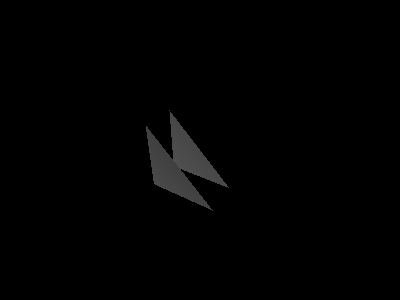
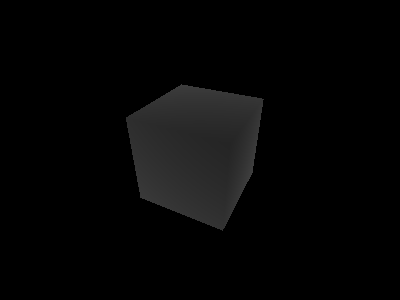
cornell box, point light

Changed region(s): [[0.3, 0.27, 0.66, 0.78]]

diff --git a/src/BasicCamera.cpp b/src/BasicCamera.cpp
@@ -42,20 +42,38 @@ const Vector3f& BasicCamera::getUp(void) const {
     return up_;
 }
 
-void BasicCamera::render(Scene& scene) {
+void BasicCamera::render(Scene& scene, Light* light) {
     Ray ray;
 
     render_.create(viewWidth_, viewHeight_);
 
     for (auto y=0u; y<viewHeight_; ++y) {
         for (auto x=0u; x<viewWidth_; ++x) {
-
             ray = generateRay(x + 0.5f, y + 0.5f);
 
             Hit hit = scene.traceRay(ray);
 
-            if (hit.triangle)
-                render_.setPixel(viewWidth_-x-1, viewHeight_-y-1, sf::Color(ray.t * 10, ray.t * 10, ray.t * 10));
+            if (hit.triangle()) {
+
+                Vertex vh = hit.getBarycentric();
+
+                LightSample ls = light->drawSample(vh.p);
+                float lt = ls.ray.t;
+
+                Hit shadowHit = scene.traceRay(ls.ray);
+
+                if (ls.ray.t >= lt - 0.00001) {
+
+                    //render_.setPixel(viewWidth_-x-1, viewHeight_-y-1, sf::Color(ray.t * 10, ray.t * 10, ray.t * 10));
+                    /*render_.setPixel(viewWidth_-x-1, viewHeight_-y-1, sf::Color(vh.n[0] * 127 + 128,
+                                                                                vh.n[1] * 127 + 128,
+                                                                                vh.n[2] * 127 + 128));*/
+                    float a = 1.0f / (ls.ray.t*ls.ray.t);
+                    render_.setPixel(viewWidth_-x-1, viewHeight_-y-1, sf::Color(a * 40,
+                                                                                a * 40,
+                                                                                a * 40));
+                }
+            }
         }
         printf("%0.3f%%\r", (float)(y*100)/viewHeight_);
     }

diff --git a/src/Scene.cpp b/src/Scene.cpp
@@ -10,10 +10,6 @@ Scene::Scene(const std::vector<Triangle>& triangles) :
     triangles_(triangles)
 {}
 
-const std::vector<Triangle>& Scene::getTriangles(void) const {
-    return triangles_;
-}
-
 void Scene::loadFromObj(const std::string& fileName) {
     vertices_.clear();
     triangles_.clear();
@@ -151,21 +147,30 @@ void Scene::loadFromObj(const std::string& fileName) {
         triangles_.push_back({ &vertices_.at(ids[0]), &vertices_.at(ids[1]), &vertices_.at(ids[2]) });
 }
 
+/*void Scene::addLight(Light* light) {
+    lights_.push_back(std::unique_ptr<Light>(light));
+}*/
+
 Hit Scene::traceRay(Ray& ray) const {
-    Hit hit{ nullptr, 0.0f, 0.0f };
+    Hit hit;
 
     for (auto& tri : triangles_) {
         Hit newHit = intersectRay(ray, tri);
 
-        if (newHit.triangle)
+        if (newHit.triangle())
             hit = newHit;
     }
 
     return hit;
 }
 
+const std::vector<Triangle>& Scene::getTriangles(void) const {
+    return triangles_;
+}
+
+
 Hit Scene::intersectRay(Ray& ray, const Triangle& triangle) const {
-    Hit hit{ nullptr, 0.0f, 0.0f };
+    Hit hit;
 
     float axrox = triangle.v[0]->p[0] - ray.o[0];
     float ayroy = triangle.v[0]->p[1] - ray.o[1];
@@ -205,11 +210,9 @@ Hit Scene::intersectRay(Ray& ray, const Triangle& triangle) const {
                     azbz,   azcz,   azroz;
         float t = mT.determinant() / aDet;
 
-        if (t < ray.t) {
+        if (t > 0.0f && t < ray.t) {
             ray.t = t;
-            hit.triangle = &triangle;
-            hit.beta = beta;
-            hit.gamma = gamma;
+            hit.set(&triangle, beta, gamma);
         }
     }
 

diff --git a/src/main.cpp b/src/main.cpp
@@ -1,27 +1,27 @@
 #include "Scene.hpp"
 #include "BasicCamera.hpp"
+#include "PointLight.hpp"
 
 #include <iostream>
 
 
 int main(void) {
-    /*std::vector<Triangle> triangles;
-    triangles.push_back(Triangle{ Vector3f{-1.0f, -1.0f,  0.0f},
-                                  Vector3f{1.0f,  -1.0f,  0.0f},
-                                  Vector3f{-1.0f, 1.0f,   0.0f} });
-    triangles.push_back(Triangle{ Vector3f{-1.0f, -1.0f,  1.0f},
-                                  Vector3f{1.0f,  -1.0f,  1.0f},
-                                  Vector3f{-1.0f, 1.0f,   1.0f} });*/
+    //  Scene
     Scene scene;
-    scene.loadFromObj("res/scenes/torus2.obj");
+    scene.loadFromObj("res/scenes/cornell.obj");
 
+    //  Light
+    PointLight light({0.5f, -0.5f, -0.5f}, {1.0f, 1.0f, 1.0f});
+    //scene.addLight(&light);
+
+    //  Camera
     BasicCamera camera(400, 300, 90.0, 4.0/3.0);
-
-    camera.lookAt( {2.0f, 2.5f, 4.0f},
-                   {0.0f, 0.0f, 0.0f},
+    camera.lookAt( {-0.7f, -0.8f, 0.95f},
+                   {0.0f, -0.5f, 0.0f},
                    {0.0f, 1.0f, 0.0f} );
 
-    camera.render(scene);
+    //  Render
+    camera.render(scene, &light);
 
     return 0;
 }

diff --git a/src/Scene.hpp b/src/Scene.hpp
@@ -5,8 +5,10 @@
 #include "Triangle.hpp"
 #include "Ray.hpp"
 #include "Hit.hpp"
+//#include "Light.hpp"
 
 #include <vector>
+#include <memory>
 
 
 class Scene {
@@ -16,17 +18,23 @@ public:
 
     void loadFromObj(const std::string& fileName);
 
-    const std::vector<Triangle>& getTriangles(void) const;
+    //void addLight(Light* light);
 
     Hit traceRay(Ray& ray) const;
 
+    const std::vector<Triangle>& getTriangles(void) const;
+
 private:
+    //  triangle data
     std::vector<Triangle> triangles_;
     std::vector<Vertex> vertices_;
 
     bool usingTexCoords_;
     bool usingNormals_;
     bool usingIndexing_;
+
+    //  light data
+    //std::vector<std::unique_ptr<Light>> lights_;
 
     Hit intersectRay(Ray& ray, const Triangle& triangle) const;
 };

diff --git a/src/Hit.hpp b/src/Hit.hpp
@@ -5,11 +5,29 @@
 #include "Triangle.hpp"
 
 
-struct Hit {
-    const Triangle* triangle;
-    float beta;
-    float gamma;
+class Hit {
+public:
+    Hit(void);
+
+    void set(const Triangle* triangle, float beta, float gamma);
+    void set(float beta, float gamma);
+
+    const Triangle* triangle(void) const;
+    float beta(void) const;
+    float gamma(void) const;
+
+    const Vertex& getBarycentric(void) const;
+
+private:
+    const Triangle* triangle_;
+    float beta_;
+    float gamma_;
+
+    //  Barycentric vertex calculated from triangle vertices
+    Vertex barycentric_;
 };
+
+
 
 
 #endif  // HIT_HPP

diff --git a/src/Camera.hpp b/src/Camera.hpp
@@ -3,13 +3,14 @@
 
 
 #include "Scene.hpp"
+#include "Light.hpp"
 
 
 template<typename T_Derived>
 class Camera {
 public:
-    void render(Scene& scene) {
-        static_cast<T_Derived>(this)->render(scene);
+    void render(Scene& scene, Light* light) {
+        static_cast<T_Derived>(this)->render(scene, light);
     }
 };
 

diff --git a/src/BasicCamera.hpp b/src/BasicCamera.hpp
@@ -20,7 +20,7 @@ public:
     const Vector3f& getRight(void) const;
     const Vector3f& getUp(void) const;
 
-    void render(Scene& scene);
+    void render(Scene& scene, Light* light);
 
 protected:
     Ray generateRay(float x, float y) const;

diff --git a/src/Ray.hpp b/src/Ray.hpp
@@ -7,8 +7,8 @@
 
 struct Ray {
     Vector3f o; //  ray origin
-    Vector3f d; //  ray direction
-    float t;    //  ray length
+    Vector3f d; //  ray direction (normalized!)
+    float t;    //  ray length (why d has to be normalized)
 };
 
 
